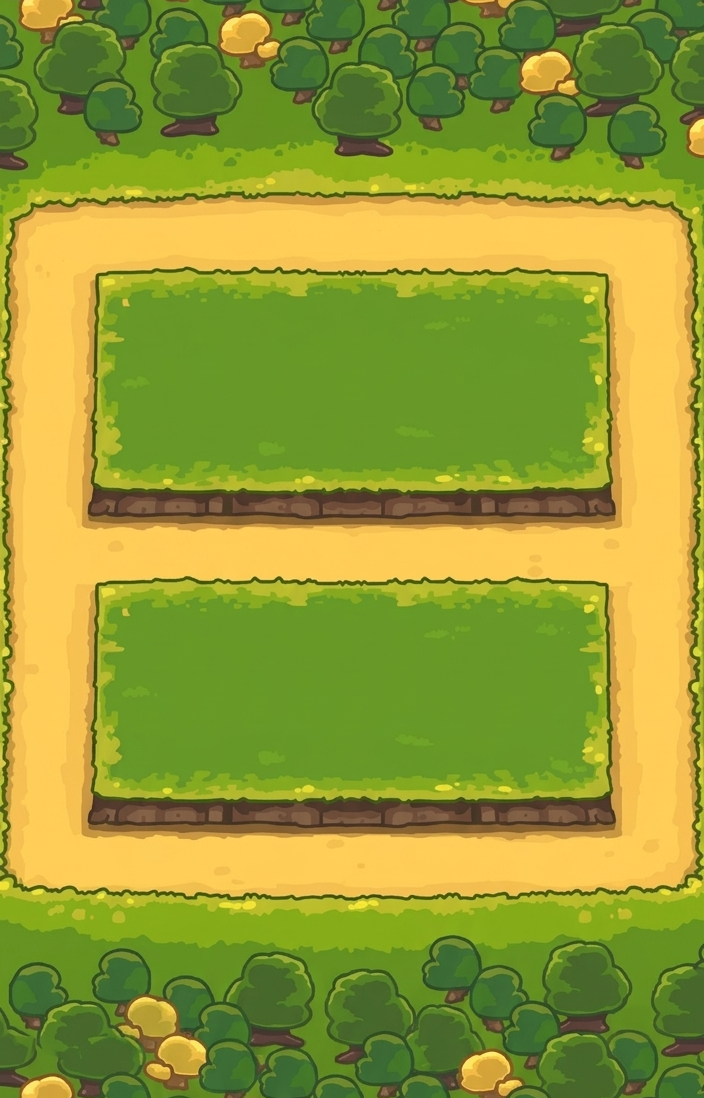
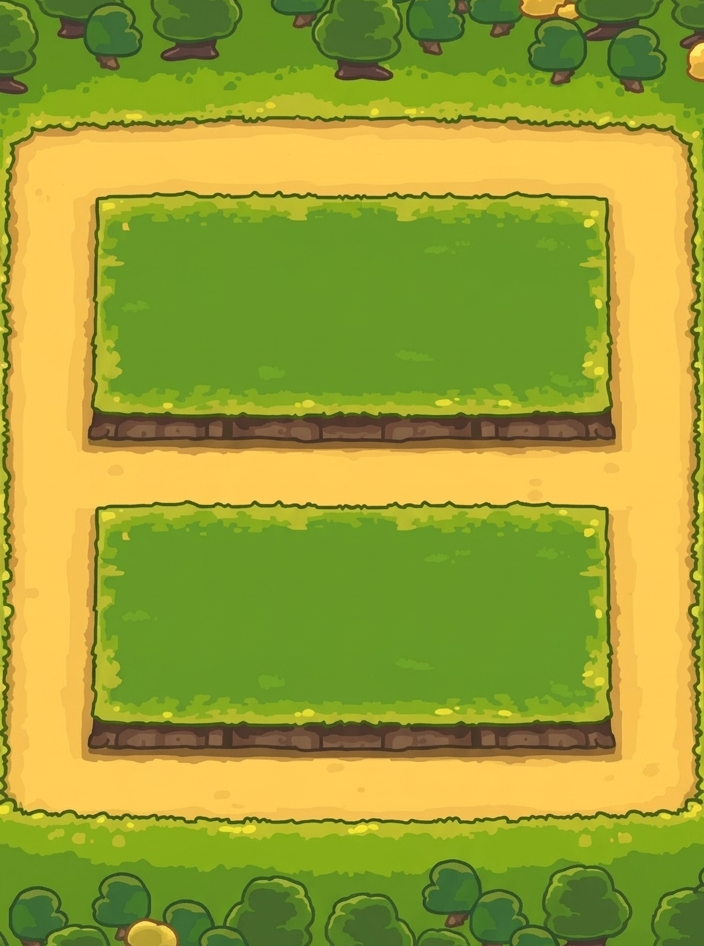
Enlarge unit sprites and expand 6x3 slot placement to fill the entire grass islands edge-to-edge

diff --git a/game.js b/game.js
@@ -141,12 +141,12 @@
     const w = geom.w;
     const h = geom.h;
 
-    // Exact normalized coordinates matching lucky_map_fitted.png
+    // Exact normalized coordinates matching lucky_map_fitted.png (tight crop)
     const leftRoadX = w * 0.072;
     const rightRoadX = w * 0.925;
-    const topRoadY = h * 0.213;
+    const topRoadY = h * 0.167;
     const midRoadY = h * 0.510;
-    const botRoadY = h * 0.793;
+    const botRoadY = h * 0.840;
 
     geom.trackRect = {
       x: leftRoadX,
@@ -165,14 +165,14 @@
 
     const cols = 6;
     const rows = 3;
-    // Pure green grass surface horizontal span (inside the cliff borders)
-    const islandLeft = w * 0.178;
-    const islandW = w * 0.642;
+    // Full grass island horizontal span (0.136 .. 0.870 -> fills the island edge-to-edge!)
+    const islandLeft = w * 0.136;
+    const islandW = w * 0.734;
     const cellW = islandW / cols;
 
-    // Top Grass Island pure flat grass surface: y = 0.284 .. 0.408
-    const topIslandY = h * 0.284;
-    const topIslandH = h * 0.124;
+    // Top Grass Island full surface: y = 0.230 .. 0.416
+    const topIslandY = h * 0.230;
+    const topIslandH = h * 0.186;
     const topCellH = topIslandH / rows;
     for (let r = 0; r < rows; r++) {
       for (let c = 0; c < cols; c++) {
@@ -182,14 +182,14 @@
           w: cellW,
           h: topCellH,
           cx: islandLeft + (c + 0.5) * cellW,
-          cy: topIslandY + (r + 0.55) * topCellH
+          cy: topIslandY + (r + 0.56) * topCellH
         });
       }
     }
 
-    // Bottom Grass Island pure flat grass surface: y = 0.572 .. 0.696
-    const botIslandY = h * 0.572;
-    const botIslandH = h * 0.124;
+    // Bottom Grass Island full surface: y = 0.570 .. 0.756
+    const botIslandY = h * 0.570;
+    const botIslandH = h * 0.186;
     const botCellH = botIslandH / rows;
     for (let r = 0; r < rows; r++) {
       for (let c = 0; c < cols; c++) {
@@ -199,7 +199,7 @@
           w: cellW,
           h: botCellH,
           cx: islandLeft + (c + 0.5) * cellW,
-          cy: botIslandY + (r + 0.55) * botCellH
+          cy: botIslandY + (r + 0.56) * botCellH
         });
       }
     }
@@ -1433,20 +1433,20 @@
       let offsets = [{ dx: 0, dy: 0 }];
       if (stackCount === 2) {
         offsets = [
-          { dx: -r.w * 0.15, dy: -1 },
-          { dx: r.w * 0.15, dy: 2 }
+          { dx: -r.w * 0.18, dy: -2 },
+          { dx: r.w * 0.18, dy: 3 }
         ];
       } else if (stackCount >= 3) {
         offsets = [
-          { dx: 0, dy: -4 },
-          { dx: -r.w * 0.17, dy: 3 },
-          { dx: r.w * 0.17, dy: 3 }
+          { dx: 0, dy: -6 },
+          { dx: -r.w * 0.21, dy: 4 },
+          { dx: r.w * 0.21, dy: 4 }
         ];
       }
 
       const scale = 1 + (unit.spawnAnim || 0) * 0.35;
-      const unitScale = meta.stage === 4 ? 1.35 : meta.stage === 3 ? 1.18 : stackCount > 1 ? 0.86 : 1.02;
-      const baseSize = Math.max(32, Math.min(r.w * 0.72, r.h * 1.18)) * unitScale * scale;
+      const unitScale = meta.stage === 4 ? 1.48 : meta.stage === 3 ? 1.28 : stackCount > 1 ? 0.96 : 1.15;
+      const baseSize = Math.max(42, Math.min(r.w * 0.86, r.h * 1.22)) * unitScale * scale;
 
       // Foot-anchored rendering: (ux, uy) is the exact ground foot position on the grass island!
       offsets.forEach((off, mIdx) => {

diff --git a/sw.js b/sw.js
@@ -1,4 +1,4 @@
-const CACHE_NAME = 'poke-lucky-defense-v7';
+const CACHE_NAME = 'poke-lucky-defense-v8';
 const SPRITE_IDS = [
   1, 2, 3, 4, 5, 6, 7, 8, 9, 19, 25, 26, 41, 52, 63, 64, 65, 66, 74, 88,
   92, 93, 94, 95, 109, 112, 123, 130, 142, 143, 144, 145, 146, 147, 148,
